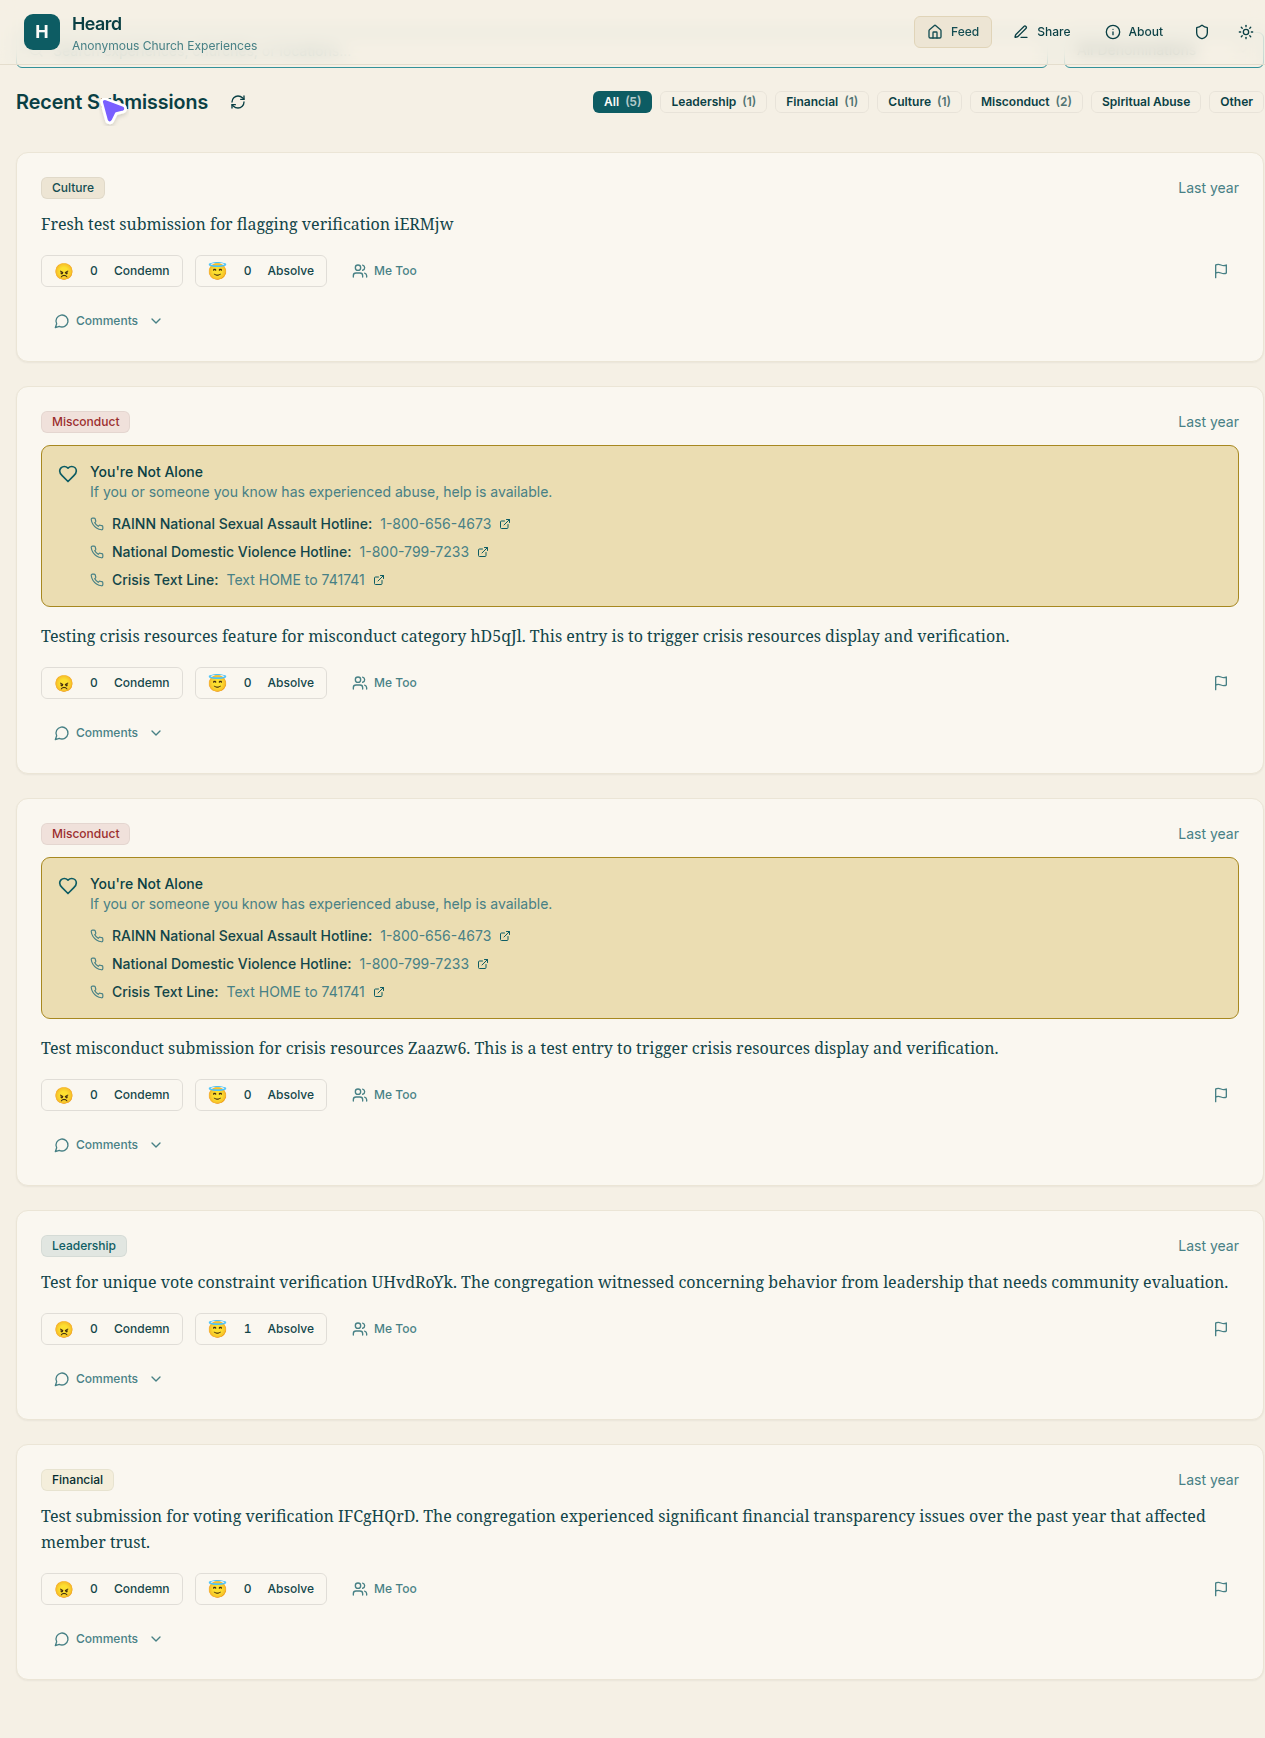
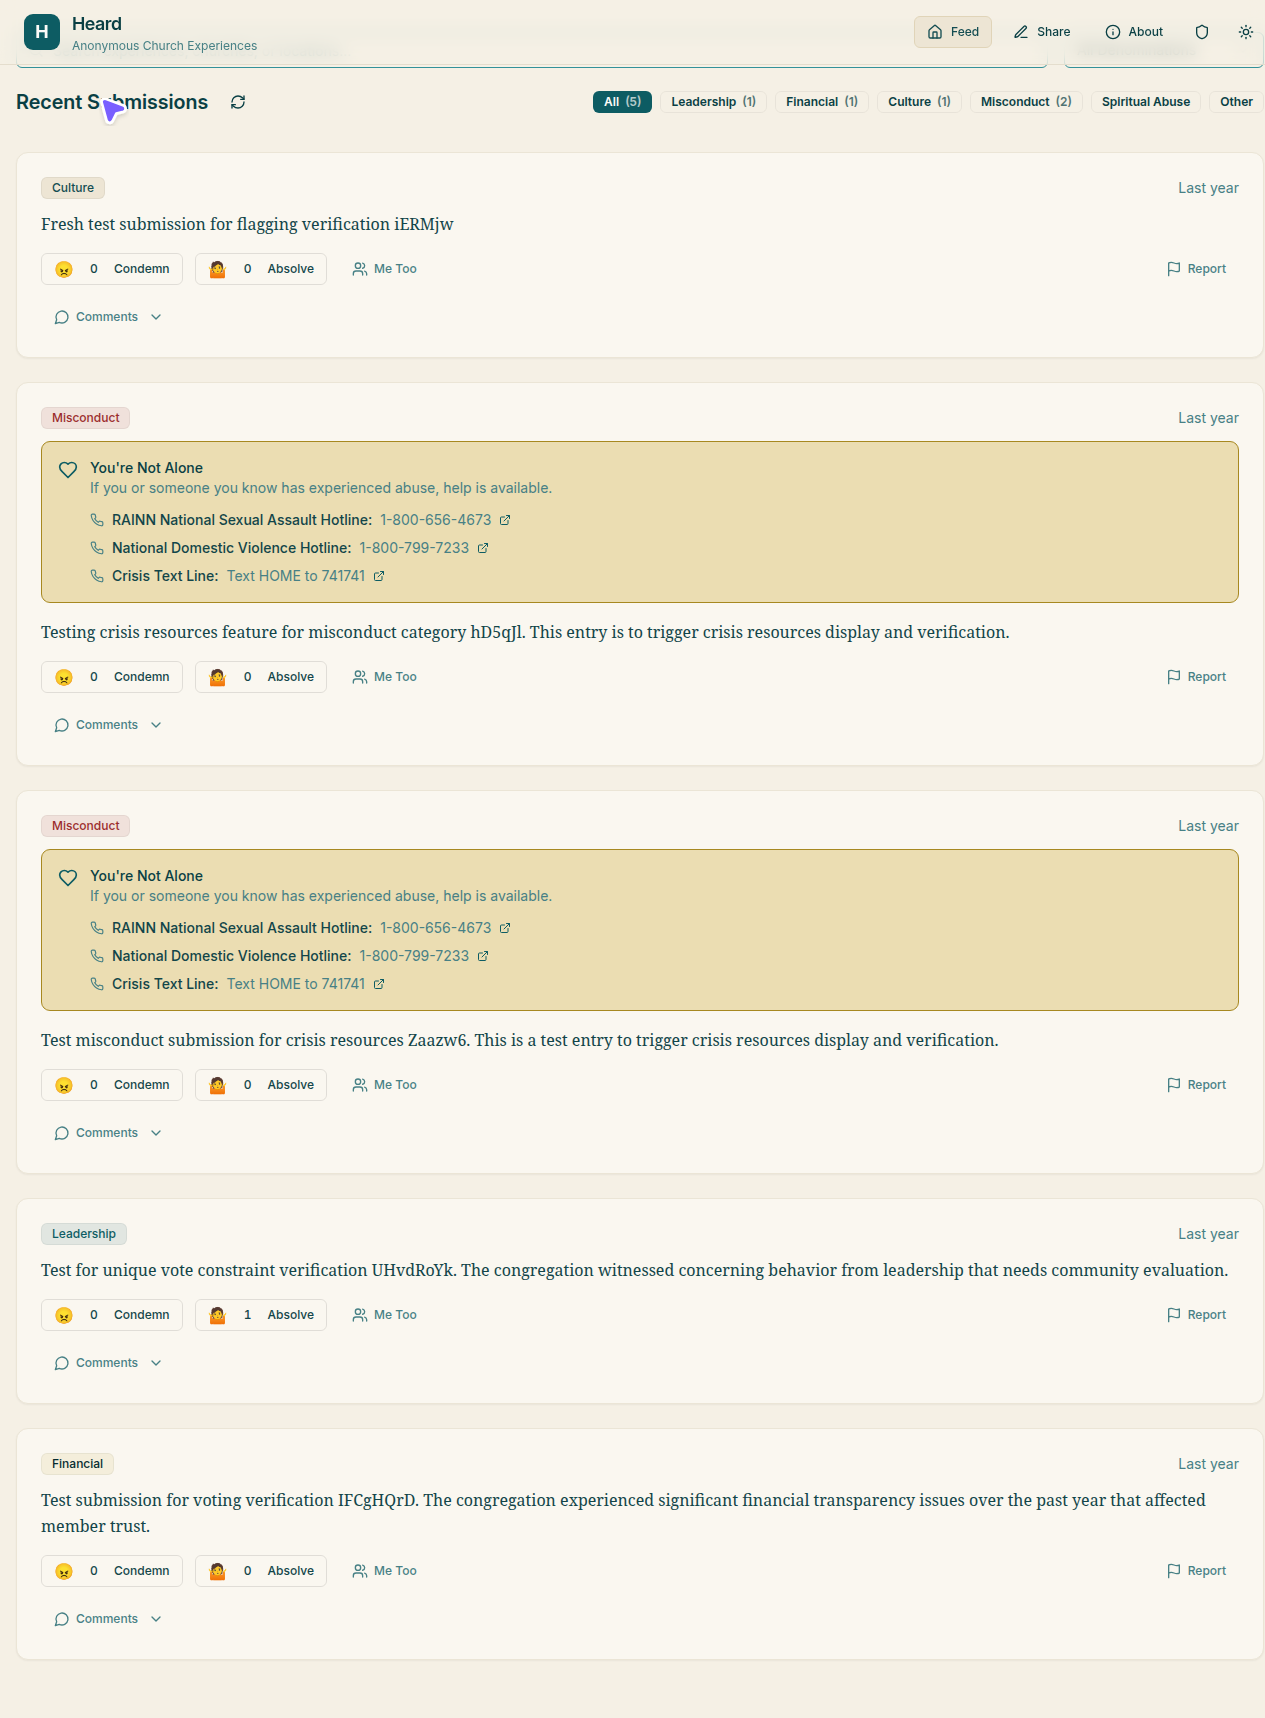
Improve reporting functionality with clearer labels and descriptions
Update FlagModal component to include "Report" text next to the flag icon, refine dialog copy for clarity and user guidance, and adjust report reason labels for better categorization.

Replit-Commit-Author: Agent
Replit-Commit-Session-Id: 4634f076-bb4a-4fa2-a0b3-0e1655fbf046
Replit-Commit-Checkpoint-Type: full_checkpoint
Replit-Commit-Event-Id: 612b2540-5908-411d-a558-c448565fd374
Replit-Commit-Screenshot-Url: https://storage.googleapis.com/screenshot-production-us-central1/61a0facc-7200-49f3-8828-7fd131e4155e/4634f076-bb4a-4fa2-a0b3-0e1655fbf046/qxGPL5Q

diff --git a/client/src/components/flag-modal.tsx b/client/src/components/flag-modal.tsx
@@ -11,14 +11,19 @@ import {
 import { Button } from "@/components/ui/button";
 import { RadioGroup, RadioGroupItem } from "@/components/ui/radio-group";
 import { Label } from "@/components/ui/label";
+import {
+  Tooltip,
+  TooltipContent,
+  TooltipTrigger,
+} from "@/components/ui/tooltip";
 import { Flag, Loader2 } from "lucide-react";
 import type { FlagReason } from "@shared/schema";
 
 const FLAG_REASONS: { value: FlagReason; label: string; description: string }[] = [
   { value: "spam", label: "Spam", description: "Promotional or unrelated content" },
-  { value: "fake", label: "Fake", description: "Fabricated or misleading story" },
-  { value: "harmful", label: "Harmful", description: "Dangerous or threatening content" },
-  { value: "other", label: "Other", description: "Another reason not listed" },
+  { value: "fake", label: "Misinformation", description: "Fabricated or misleading story" },
+  { value: "harmful", label: "Harmful / Abusive", description: "Dangerous, threatening, or abusive content" },
+  { value: "other", label: "Other", description: "Another concern not listed above" },
 ];
 
 interface FlagModalProps {
@@ -48,15 +53,23 @@ export function FlagModal({ submissionId, onFlag, isFlagged = false }: FlagModal
 
   if (hasSubmitted) {
     return (
-      <Button
-        variant="ghost"
-        size="icon"
-        disabled
-        className="text-flag opacity-60"
-        data-testid={`button-flagged-${submissionId}`}
-      >
-        <Flag className="h-4 w-4 fill-current" />
-      </Button>
+      <Tooltip>
+        <TooltipTrigger asChild>
+          <Button
+            variant="ghost"
+            size="sm"
+            disabled
+            className="gap-1.5 text-flag opacity-60"
+            data-testid={`button-flagged-${submissionId}`}
+          >
+            <Flag className="h-4 w-4 fill-current" />
+            <span className="hidden sm:inline">Reported</span>
+          </Button>
+        </TooltipTrigger>
+        <TooltipContent>
+          <p>You've reported this post</p>
+        </TooltipContent>
+      </Tooltip>
     );
   }
 
@@ -65,18 +78,20 @@ export function FlagModal({ submissionId, onFlag, isFlagged = false }: FlagModal
       <DialogTrigger asChild>
         <Button
           variant="ghost"
-          size="icon"
-          className="text-muted-foreground hover:text-flag"
+          size="sm"
+          className="gap-1.5 text-muted-foreground hover:text-flag"
           data-testid={`button-flag-${submissionId}`}
+          title="Report inappropriate content"
         >
           <Flag className="h-4 w-4" />
+          <span className="hidden sm:inline">Report</span>
         </Button>
       </DialogTrigger>
       <DialogContent className="sm:max-w-md">
         <DialogHeader>
-          <DialogTitle>Report this submission</DialogTitle>
+          <DialogTitle>Report this post</DialogTitle>
           <DialogDescription>
-            Help us maintain a safe community by reporting content that violates our guidelines.
+            Tell us why you're reporting this. All reports are private and reviewed by our team.
           </DialogDescription>
         </DialogHeader>
 
@@ -105,29 +120,34 @@ export function FlagModal({ submissionId, onFlag, isFlagged = false }: FlagModal
           ))}
         </RadioGroup>
 
-        <DialogFooter>
-          <Button
-            variant="outline"
-            onClick={() => setOpen(false)}
-            disabled={isSubmitting}
-          >
-            Cancel
-          </Button>
-          <Button
-            variant="destructive"
-            onClick={handleSubmit}
-            disabled={isSubmitting}
-            data-testid="button-submit-flag"
-          >
-            {isSubmitting ? (
-              <>
-                <Loader2 className="mr-2 h-4 w-4 animate-spin" />
-                Submitting...
-              </>
-            ) : (
-              "Submit Report"
-            )}
-          </Button>
+        <DialogFooter className="flex-col gap-3 sm:flex-row">
+          <p className="text-xs text-muted-foreground text-center sm:text-left sm:flex-1">
+            False reports may be reviewed.
+          </p>
+          <div className="flex gap-2">
+            <Button
+              variant="outline"
+              onClick={() => setOpen(false)}
+              disabled={isSubmitting}
+            >
+              Cancel
+            </Button>
+            <Button
+              variant="destructive"
+              onClick={handleSubmit}
+              disabled={isSubmitting}
+              data-testid="button-submit-flag"
+            >
+              {isSubmitting ? (
+                <>
+                  <Loader2 className="mr-2 h-4 w-4 animate-spin" />
+                  Submitting...
+                </>
+              ) : (
+                "Submit Report"
+              )}
+            </Button>
+          </div>
         </DialogFooter>
       </DialogContent>
     </Dialog>
